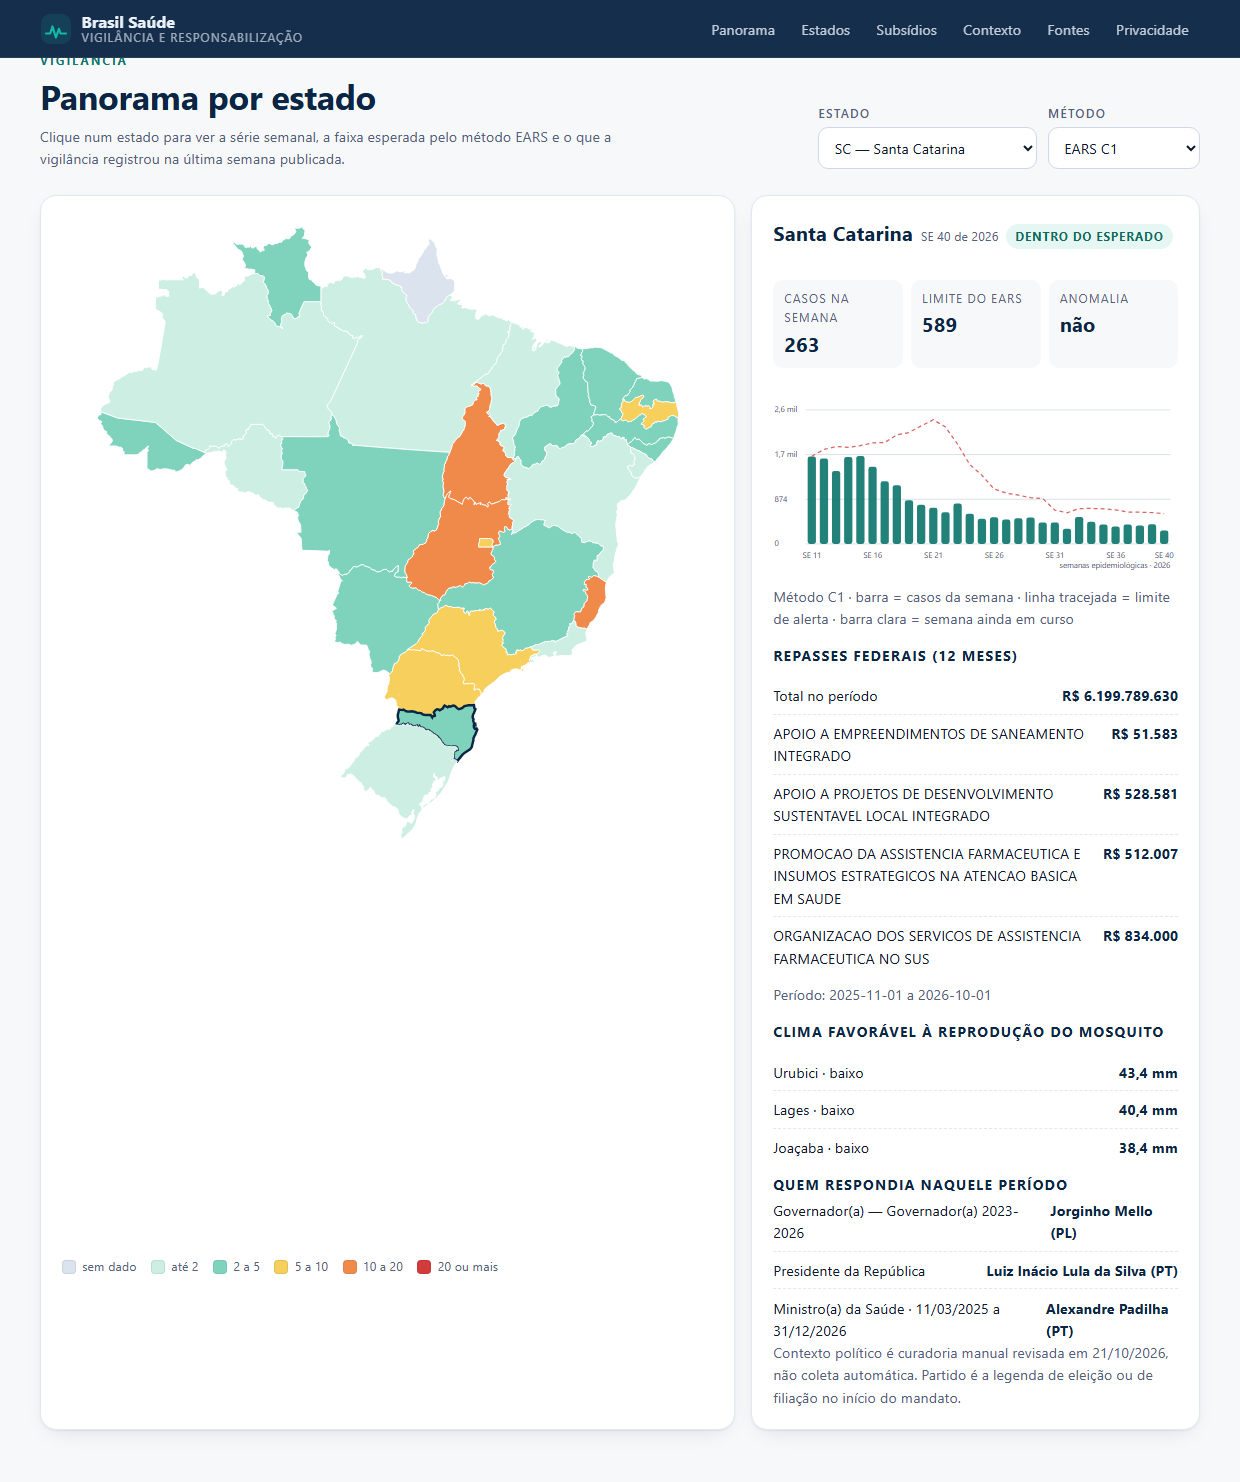
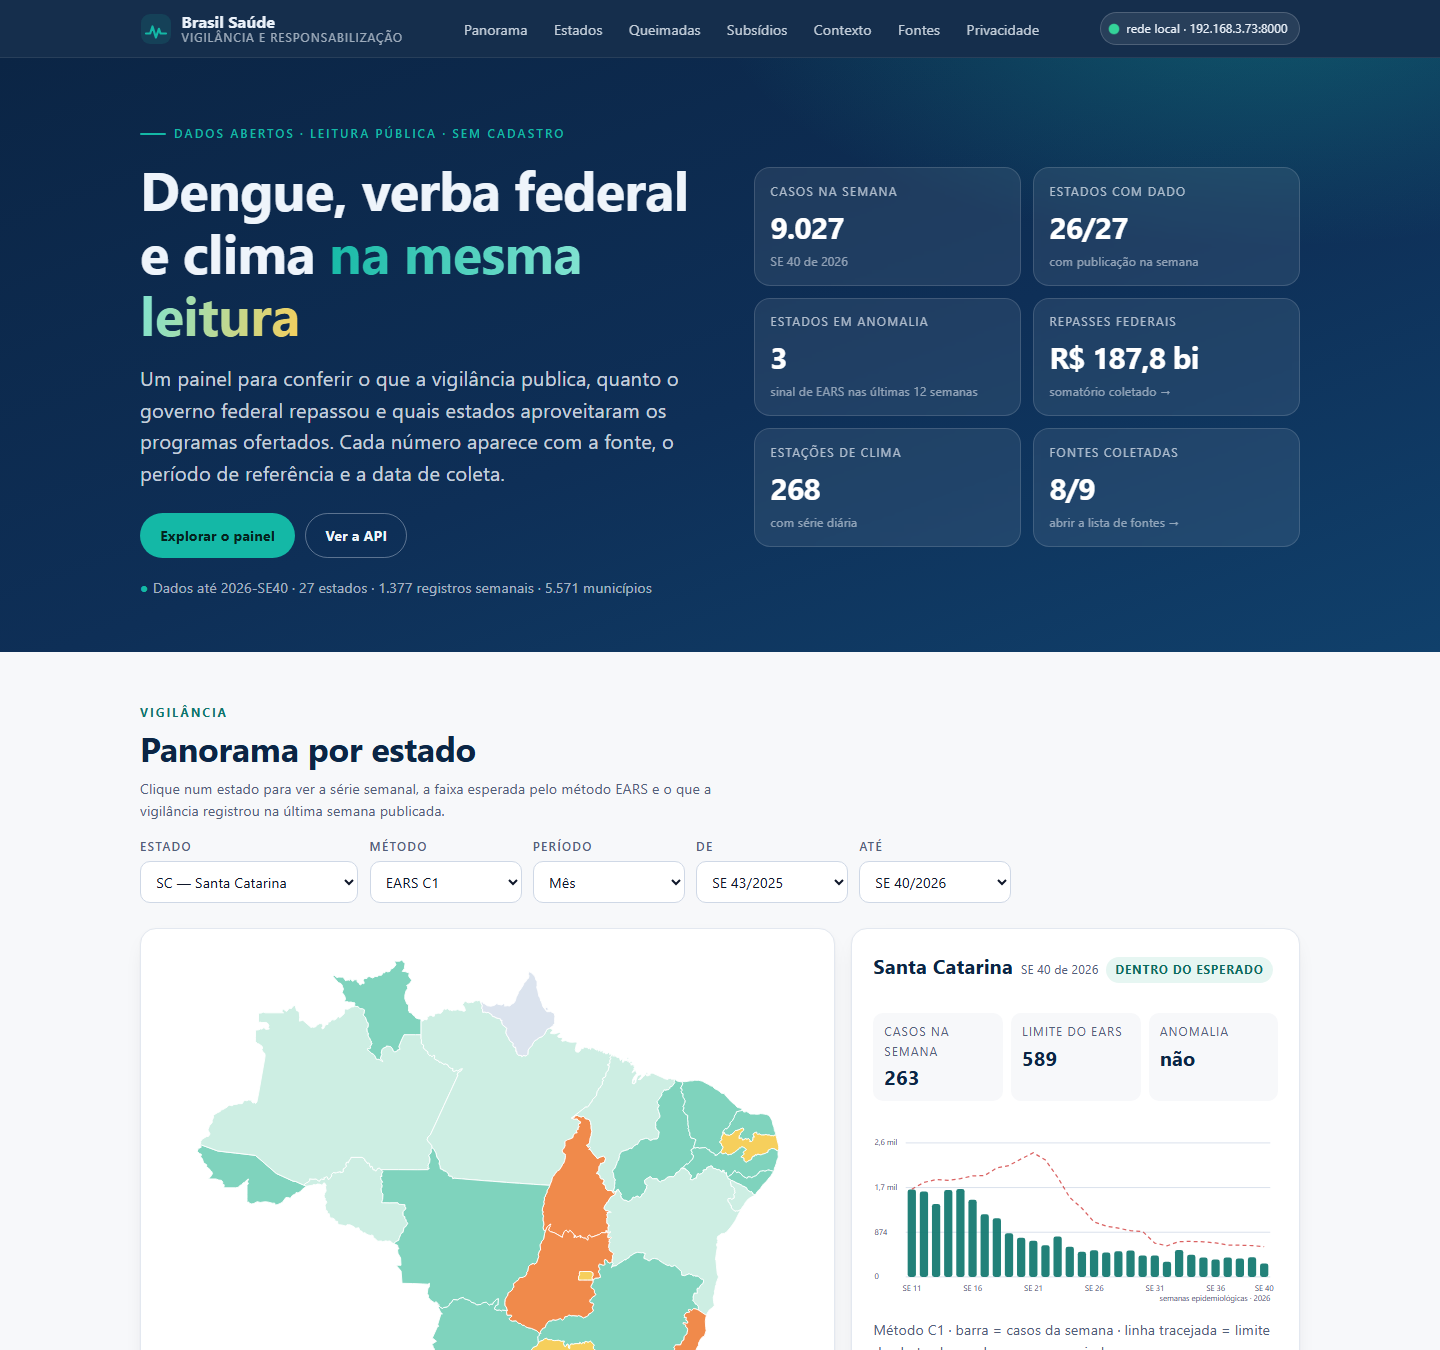
docs: README com capturas atualizadas e roadmap corrigido
- Capturas refeitas apos as secoes de queimadas e o indicador de rede:
  panorama (com mapa), estados (agregacao por periodo), queimadas, subsidios e
  celular; a secao de contexto passa a ser descrita em texto por causa do
  limite de cinco imagens.
- README: badge de testes em 99, numeros de queimadas, periodo configuravel,
  indicador de rede com rearme e endpoints novos.
- roadmap_dados.md: registra o que foi medido no INPE (sem token, /api/focos
  aposentado, ZIP anual aberto, CSV por bioma e regiao especial desde 1998) e
  marca queimadas como publicado.

diff --git a/README.md b/README.md
@@ -3,7 +3,7 @@
 ![Python](https://img.shields.io/badge/python-3.13%2B-blue)
 ![Licença](https://img.shields.io/badge/licen%C3%A7a-MIT-green)
 ![Status](https://img.shields.io/badge/status-funcional%20(local)-brightgreen)
-![Testes](https://img.shields.io/badge/testes-82%20verdes-brightgreen)
+![Testes](https://img.shields.io/badge/testes-99%20verdes-brightgreen)
 
 Um painel público que responde, com fonte em cada número: **qual a situação da dengue no
 meu estado, isso é anômalo, quanto o governo federal repassou, quais programas foram
@@ -28,32 +28,36 @@ dado exibido carrega órgão, URL, período de referência e data de coleta.
 
 ## Capturas
 
-![Panorama por estado com mapa coroplético, série semanal em barras e bloco de responsáveis](docs/img/01-panorama.png)
+![Panorama com mapa coroplético por estado, indicador de rede no topo e painel de detalhe](docs/img/01-panorama.png)
 
-*Panorama: mapa por incidência na última semana consolidada (2026-SE40), série de 30
-semanas em barras com a linha do limite EARS, repasses dos 12 meses e quem ocupava os
-cargos no período.*
+*Topo do painel: indicador de rede local (pulso verde = serviço respondendo), seis
+indicadores nacionais e o panorama por estado com mapa em SVG próprio. O painel lateral
+mostra casos da semana, limite do EARS, série em barras e quem ocupava os cargos.*
 
-![Ranking de incidência por estado e tabela completa da semana](docs/img/02-estados.png)
+![Série agregada por período, ranking de incidência e tabela de estados](docs/img/02-estados.png)
 
-*Comparação entre estados: barra por incidência e tabela com casos, taxa e situação.
-No celular a tabela vira lista de cartões, sem rolagem lateral.*
+*Estados em números: casos agregados por mês, trimestre, semestre ou ano, com recorte
+"de tal semana a tal semana"; ranking por incidência e tabela completa. No celular a
+tabela vira lista de cartões, sem rolagem lateral.*
 
-![Programas federais ofertados, valor planejado por estado e tabela de propostas](docs/img/03-subsidios.png)
+![Focos de queimada por estado e distribuição mensal](docs/img/03-queimadas.png)
 
-*Subsídios: 75 programas ofertados em 2026 pelos Ministérios da Saúde e das Cidades,
-valor planejado por estado e tabela de propostas por eixo.*
+*Queimadas: 278.299 focos em 2024 e 136.393 em 2025, agregados por estado e por mês a
+partir dos dados abertos do INPE — sem token e sem chave de API.*
 
-![Linha do tempo dos ministros da Saúde e mosaico de governadores por partido](docs/img/04-contexto.png)
+![Programas federais ofertados, valor planejado por estado e tabela de propostas](docs/img/04-subsidios.png)
 
-*Contexto político: quem ocupou o Ministério da Saúde desde 2019 e o partido de cada
-governador do mandato 2023–2026. Cargo, nome, partido, período e fonte — sem juízo.*
+*Subsídios: 75 programas ofertados em 2026 e 84 em 2025 pelos Ministérios da Saúde e das
+Cidades, com valor planejado por estado e propostas por eixo.*
 
 ![Mesmo painel em tela de celular, sem rolagem horizontal](docs/img/05-celular.png)
 
-*No celular (390 × 844 px): mapa, cartões e gráfico empilhados, tabelas convertidas em
-cartões e menu com rolagem própria. Verificado por script: `scrollWidth` igual a
-`clientWidth` em 390, 768 e 1440 px.*
+*No celular (390 × 844 px): mapa, cartões e gráficos empilhados, menu com rolagem própria.
+Verificado por script: `scrollWidth` igual a `clientWidth` em 390, 768 e 1440 px.*
+
+A seção **Contexto** (linha do tempo de ministros e mosaico de governadores por partido)
+não aparece nas capturas por causa do limite de cinco imagens por projeto — está descrita
+em texto e visível em `/ #contexto`.
 
 ## Como rodar
 
@@ -102,32 +106,37 @@ python scripts/backup_sqlite.py restaurar data/backups/<arquivo>.db
 
 - **Coleta real, sem dado inventado.** 27 UFs, 5.571 municípios, 51 semanas de dengue por
   estado, R$ 187,8 bilhões de repasses federais em 12 meses, 268 estações de clima,
-  75 programas federais em 2026 e 84 em 2025, 6 ministros da Saúde e 27 governadores.
+  75 programas federais em 2026 e 84 em 2025, 278.299 focos de queimada em 2024 e 136.393
+  em 2025, 6 ministros da Saúde e 27 governadores.
 - **Proveniência obrigatória.** Toda tabela aponta para uma linha de `fonte` com órgão,
-  URL, período e data de coleta. A tela de fontes mostra 7 de 8 fontes com status `ok`.
+  URL, período e data de coleta. A tela de fontes mostra 8 de 9 fontes com status `ok`.
 - **EARS com teste canônico.** C1 (7 semanas, k=3) e C2 (janela deslocada) calculados do
   zero, com exemplo documentado em `tests/test_ears.py`.
 - **Lacuna não é zero.** Semana não publicada entra como `None`, aparece como buraco no
-  gráfico e como "sem dado" na tabela.
+  gráfico e como "sem dado" na tabela; a média só considera semanas publicadas.
+- **Período configurável.** Semana, mês, trimestre, semestre, ano e recorte "de tal semana
+  a tal semana", calculado no servidor com a semana epidemiológica brasileira.
 - **Frontend sem framework e sem CDN.** Zero requisição a terceiros: nenhum CDN, nenhuma
   fonte externa, nenhum script de análise. Mapa, gráfico de barras e ranking são SVG e
   HTML gerados no navegador.
 - **Responsivo de verdade.** Layout verificado em 390, 768 e 1440 px sem rolagem
   horizontal (`scrollWidth == clientWidth`).
+- **Indicador de rede com rearme.** Pílula com pulso verde/vermelho no cabeçalho; o
+  servidor roda sob um vigia que o reinicia se ele cair e aceita rearme pelo clique.
 - **Política de dados publicada** em `/privacidade` e em `docs/politica_dados.md`.
 - **Autorização da Fase 2.** RBAC/ABAC local com papéis `admin`, `gestor_estadual` e
   `publico`; `gestor_estadual` recebe 403 ao pedir outro estado. Sem login no MVP.
 - **Backup e restauração com prova.** Cópia pela API do SQLite, `integrity_check`,
   SHA-256 e restauração conferida byte a byte.
-- **82 testes verdes e `ruff` limpo**, com CI no GitHub Actions.
+- **99 testes verdes e `ruff` limpo**, com CI no GitHub Actions.
 
 ## O que não foi alcançado
 
 | Item | Por que ficou de fora |
 | --- | --- |
-| Outras doenças (chikungunya, zika) | a API do InfoDengue responde (validado), mas exige coluna `doenca` no esquema e recálculo do EARS por doença — virou ciclo do roadmap, não do MVP |
+| Outras doenças (chikungunya, zika) | a API do InfoDengue responde (validado) e traz nível de alerta 1–4; exige coluna `doenca` no esquema e recálculo por doença — próximo ciclo do roadmap |
 | Internações, SRAG e óbitos | dependem de bases anuais grandes do OpenDataSUS (SIH/SUS), sem recorte por UF pronto |
-| Queimadas e fumaça | o INPE passou a exigir cadastro/token para o CSV por estado |
+| Queimadas por bioma e região especial | o painel publica por UF e mês; as séries longas (1998–2026) por bioma e por região especial estão mapeadas em `data.inpe.br`, falta modelar |
 | Desastres (enchentes do RS) | o S2iD/MIDR não tem API aberta documentada; o dado existe em planilha e relatório |
 | Obras por esfera (federal/estadual/municipal) | temos proposta e valor planejado; execução física e esfera exigem o Obrasgov |
 | Saneamento (SNIS) | diagnóstico anual em planilha; fora do escopo do ciclo |
@@ -157,11 +166,12 @@ python scripts/backup_sqlite.py restaurar data/backups/<arquivo>.db
 
 ## O que fazer agora
 
-1. Chikungunya e zika (fonte já validada; falta esquema e seletor).
+1. Chikungunya e zika (fonte validada, com nível de alerta 1–4 e nowcasting por município).
 2. Série diária longa de clima por estado — destrava a correlação com a dengue.
-3. Obrasgov e SNIS: quanto foi destinado, quanto foi executado.
-4. Internações (SIH/SUS) para falar de gravidade, não só de notificação.
-5. Fase 3 de identidade: gov.br (OAuth2/OIDC) e MFA para acesso administrativo.
+3. Séries de queimadas por bioma e por região especial (1998–2026) do `data.inpe.br`.
+4. Obrasgov e SNIS: quanto foi destinado, quanto foi executado.
+5. Internações (SIH/SUS) para falar de gravidade, não só de notificação.
+6. Fase 3 de identidade: gov.br (OAuth2/OIDC) e MFA para acesso administrativo.
 
 O detalhamento de cada item, com a fonte candidata e o obstáculo, está em
 [`docs/roadmap_dados.md`](docs/roadmap_dados.md).
@@ -174,7 +184,7 @@ scripts/coletar.py  →  src/fontes/*  →  SQLite (data/brasil_saude.db)  →  
 
 | Camada | Arquivo | Papel |
 | --- | --- | --- |
-| Coleta | `src/fontes/{ibge,infodengue,inmet,transparencia,transferegov,responsaveis}.py` | baixa, normaliza e grava com carimbo de data |
+| Coleta | `src/fontes/{ibge,infodengue,inmet,transparencia,transferegov,queimadas,responsaveis}.py` | baixa, normaliza e grava com carimbo de data |
 | Rede | `src/rede.py` | retry com espera crescente, decodificação UTF-8 com queda para Latin-1 |
 | Detecção | `src/ears.py` | C1 e C2, janela móvel, desvio amostral |
 | Serviços | `src/servicos/*` | regra de negócio: série, incidência, repasses, subsídios, contexto |
@@ -191,6 +201,10 @@ scripts/coletar.py  →  src/fontes/*  →  SQLite (data/brasil_saude.db)  →  
 | `GET /api/estados/{uf}/repasses` | repasses federais da função Saúde |
 | `GET /api/estados/{uf}/clima` | chuva e temperatura por município |
 | `GET /api/estados/{uf}/contexto` | governador, presidente e ministros do período |
+| `GET /api/estados/{uf}/agregado?granularidade=mes` | série recortada e agregada por período |
+| `GET /api/queimadas?ano=2025` | focos de queimada por estado e por mês (INPE) |
+| `GET /api/rede` | endereço da rede local e há quanto tempo o serviço está no ar |
+| `POST /api/rede/rearmar` | pede ao vigia que reinicie o servidor |
 | `GET /api/subsidios?ano=2026` | programas ofertados e propostas por UF |
 | `GET /api/contexto` | linha do tempo de ministros e governadores |
 | `GET /api/fontes` | proveniência de tudo que aparece na tela |

diff --git a/docs/roadmap_dados.md b/docs/roadmap_dados.md
@@ -18,17 +18,35 @@ dado não entra — mesmo que seja interessante.
 | Território e população | IBGE (malha mínima + Censo 2022) | publicado | 2022 |
 | Repasses federais (função Saúde) | Portal da Transparência / CGU | publicado | 12 meses |
 | Programas e propostas federais | Transferegov | publicado | 2025 e 2026 |
+| Focos de queimada por UF e mês | INPE (`dataserver-coids.inpe.br`) | publicado | 2024 e 2025 |
 | Clima diário (chuva e temperatura) | INMET + Open-Meteo (fallback declarado) | publicado | 14 dias por estação |
 | Quem governava (presidente, ministros, governadores) | Curadoria com fonte oficial | publicado | 2019–2026 |
+| Situação pós-mandato | TSE, Câmara, Fiocruz e imprensa identificável | publicado | 2019–2026 |
 | Método de alerta | EARS C1 e C2 | publicado | série inteira |
+
+## 1.1 O que foi medido sobre fontes de queimada (21/10/2026)
+
+Três fatos que contrariam o que se costuma repetir sobre o INPE:
+
+1. **Não existe token pago nem autenticação obrigatória.** O antigo
+   `queimadas.dgi.inpe.br/api/focos` foi aposentado: hoje responde a página do portal
+   (HTML), não JSON. Isso é fim de endpoint, não cobrança.
+2. **O caminho aberto e estável** é o servidor de transferência:
+   `https://dataserver-coids.inpe.br/queimadas/queimadas/focos/csv/anual/Brasil_sat_ref/focos_br_ref{ANO}.zip`
+   — 23 arquivos anuais, o de 2025 com 5,9 MB e 136.393 focos. É o que o coletor usa.
+3. **O portal novo** `https://data.inpe.br/queimadas/portal/csv/download/...` entrega CSV
+   já agregados, sem token:
+   - `situacao-atual/regioes_especiais/7anos.csv` — matriz região × ano (2020–2026)
+   - `historico-mensal/regioes_especiais/amazonia_legal.csv` — série mensal **desde 1998**
+   - `situacao-atual/biomas/7anos.csv` e `historico-mensal/biomas/amazonia.csv`
+   - caminhos com `estados/sp.csv` devolvem **404**: por estado, a fonte é o ZIP anual.
 
 ## 2. O que o dono pediu e ainda não está publicado
 
 | Pedido | Fonte candidata | Situação em 21/10/2026 | O que falta |
 | --- | --- | --- | --- |
-| Outras arboviroses (chikungunya, zika) | InfoDengue, parâmetro `diseases` | **validado nesta sessão**: chikungunya devolve série real; zika devolve série quase toda zerada | acrescentar a coluna `doenca` em `caso_semana`, recalcular o EARS por doença e somar um seletor na tela |
-| Internações e SRAG | OpenDataSUS (SIH/SUS e SRAG) | não coletado | arquivos anuais grandes (centenas de MB); precisa de recorte por UF e de um job com cache em disco |
-| Queimadas e fumaça | INPE BDQueimadas | não coletado | o serviço passou a exigir cadastro/token para o CSV por estado; sem token não há série confiável |
+| Outras arboviroses (chikungunya, zika) | InfoDengue, parâmetro `diseases` | **validado nesta sessão**: chikungunya devolve série real; zika devolve série quase toda zerada | acrescentar a coluna `doenca` em `caso_semana`, recalcular o EARS por doença e somar um seletor na tela || Internações e SRAG | OpenDataSUS (SIH/SUS e SRAG) | não coletado | arquivos anuais grandes (centenas de MB); precisa de recorte por UF e de um job com cache em disco |
+| Queimadas e fumaça | INPE — `dataserver-coids.inpe.br` (ZIP anual) e `data.inpe.br` (CSV) | **publicado por UF e mês** (2024 e 2025) | falta modelar as séries longas por bioma e região especial |
 | Desastres e chuvas extremas (caso do RS em 2024) | S2iD/MIDR e CEMADEN | não coletado | não há API aberta documentada; o caminho é o relatório de reconhecimento federal por município (PDF/planilha) |
 | Obras federais, estaduais e municipais | Obrasgov (`obrasgov.gestao.gov.br`) e Transferegov | parcial: já temos propostas e valores | faltam a execução física, o empreendimento e a esfera (federal/estadual/municipal/consórcio) |
 | Saneamento (água, esgoto, resíduos) | SNIS (diagnóstico anual) | não coletado | planilhas anuais por município; é a melhor fonte para "quanto foi feito" |
